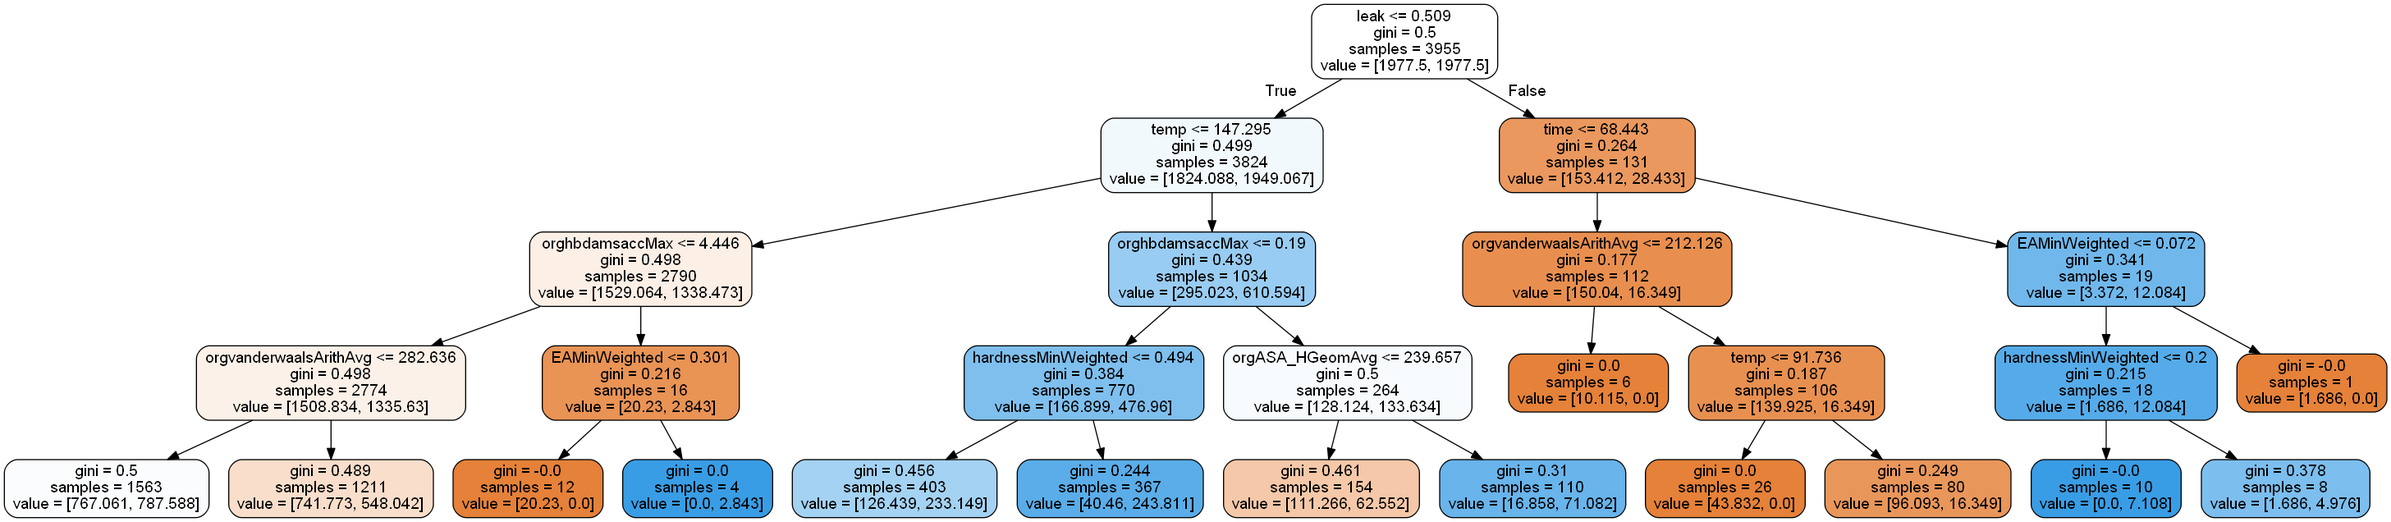
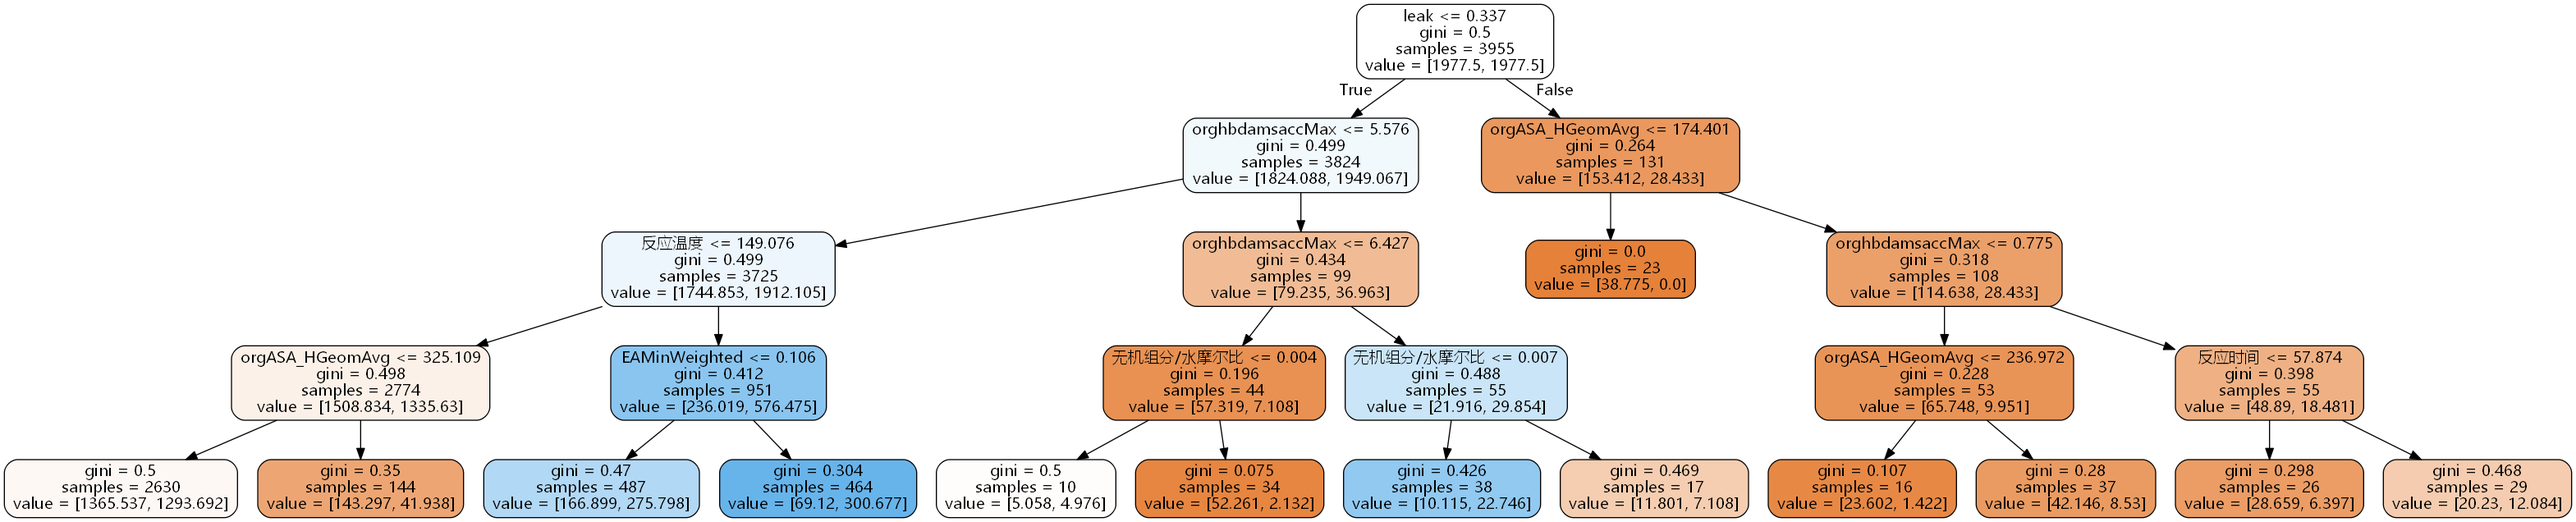
Updated data generated

diff --git a/data_keys.py b/data_keys.py
@@ -1,5 +1,5 @@
 # Declaring features:
-test_key = ['time', 'slowCool', 'pH', 'leak', 'numberInorg', 'numberOrg',
+test_key = [['time', 'slowCool', 'pH', 'leak', 'numberInorg', 'numberOrg',
             'numberOxlike', 'numberComponents', 'orgavgpolMax',
             'orgrefractivityMax', 'orgmaximalprojectionareaMax',
             'orgmaximalprojectionradiusMax', 'orgmaximalprojectionsizeMax',
@@ -9,14 +9,36 @@ test_key = ['time', 'slowCool', 'pH', 'leak', 'numberInorg', 'numberOrg',
             'orgASA-Max', 'orgASA_HMax', 'orgASA_PMax', 'orgpolarsurfaceareaMax',
             'orghbdamsaccMax', 'orghbdamsdonMax', 'orgavgpolMin', 'orgrefractivityMin',
             'orgmaximalprojectionareaMin', 'orgmaximalprojectionradiusMin',
-            'orgmaximalprojectionsizeMin', 'orgminimalprojectionareaMin',
+            'orgmaximalprojectionsizeMin', 'orgminimalprojectionareaMin'],
+            ['反应时间', '慢速冷却', 'pH', 'leak', '无机组分数', '有机组分数量',
+             'Oxlike数', '组分数', 'orgavgpolMax',
+            'orgrefractivityMax', 'orgmaximalprojectionareaMax',
+            'orgmaximalprojectionradiusMax', 'orgmaximalprojectionsizeMax',
+            'orgminimalprojectionareaMax', 'orgminimalprojectionradiusMax',
+            'orgminimalprojectionsizeMax', 'orgavgpol_pHdependentMax',
+            'orgmolpolMax', 'orgvanderwaalsMax', 'orgASAMax', 'orgASA+Max',
+            'orgASA-Max', 'orgASA_HMax', 'orgASA_PMax', 'orgpolarsurfaceareaMax',
+            'orghbdamsaccMax', 'orghbdamsdonMax', 'orgavgpolMin', 'orgrefractivityMin',
+            'orgmaximalprojectionareaMin', 'orgmaximalprojectionradiusMin',
+            'orgmaximalprojectionsizeMin', 'orgminimalprojectionareaMin'
+             ]
             ]
-feat_first = ['orgvanderwaalsMin', 'orgASA+Min', 'orghbdamsdonGeomAvg',
-              'PaulingElectronegMean', 'hardnessMaxWeighted', 'AtomicRadiusMeanWeighted']
+feat_first = [['orgvanderwaalsMin', 'orgASA+Min', 'orghbdamsdonGeomAvg',
+              'PaulingElectronegMean', 'hardnessMaxWeighted', 'AtomicRadiusMeanWeighted'],
+              ['orgvanderwaalsMin', 'orgASA+Min', 'orghbdamsdonGeomAvg',
+               '平均Pauling电负性', '硬度MaxWeighted', '原子半径MeanWeighted']
+              ]
 
-feat_top6 = ['time', 'hardnessMinWeighted', 'orgASA_HGeomAvg', 'leak',
-             'inorg-water-moleratio', 'orgvanderwaalsArithAvg']
+feat_top6 = [['time', 'hardnessMinWeighted', 'orgASA_HGeomAvg', 'leak',
+             'inorg-water-moleratio', 'orgvanderwaalsArithAvg'],
+             ['反应时间', '硬度MinWeighted', 'orgASA_HGeomAvg', 'leak',
+             '无机组分/水摩尔比', 'org范德华ArithAvg']
+             ]
 
-feat_top9 = ['time', 'hardnessMinWeighted', 'orgASA_HGeomAvg', 'leak',
-             'inorg-water-moleratio', 'orgvanderwaalsArithAvg', 'orgvanderwaalsArithAvg',
-             'orghbdamsaccMax', 'temp', 'EAMinWeighted']
+feat_top9 = [['time', 'hardnessMinWeighted', 'orgASA_HGeomAvg', 'leak',
+             'inorg-water-moleratio', 'orgvanderwaalsArithAvg',
+             'orghbdamsaccMax', 'temp', 'EAMinWeighted'],
+             ['反应时间', '硬度MinWeighted', 'orgASA_HGeomAvg', 'leak',
+             '无机组分/水摩尔比', 'org范德华ArithAvg',
+             'orghbdamsaccMax', '反应温度', 'EAMinWeighted']
+             ]
